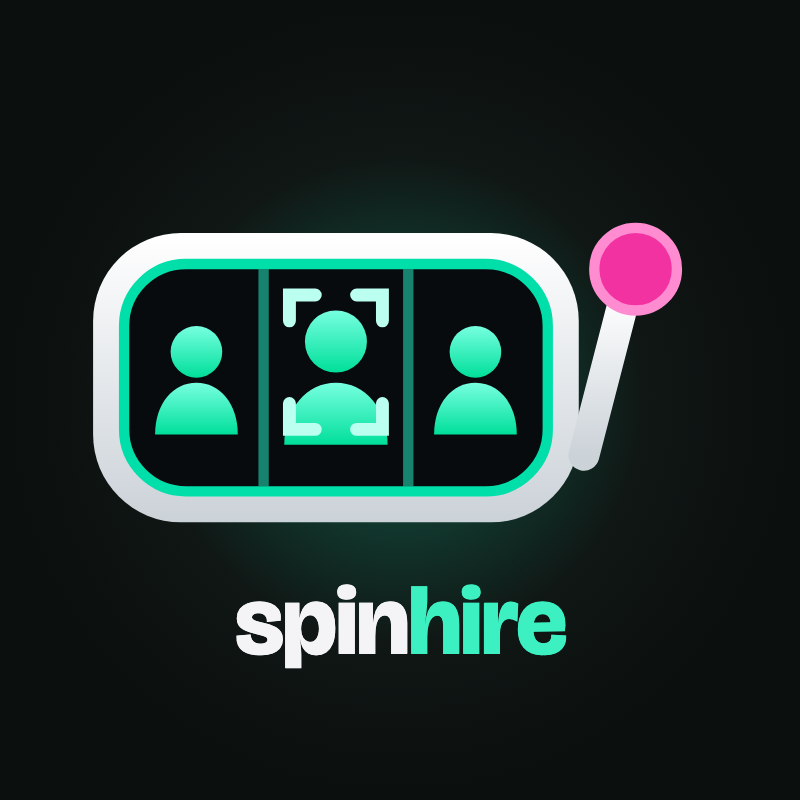
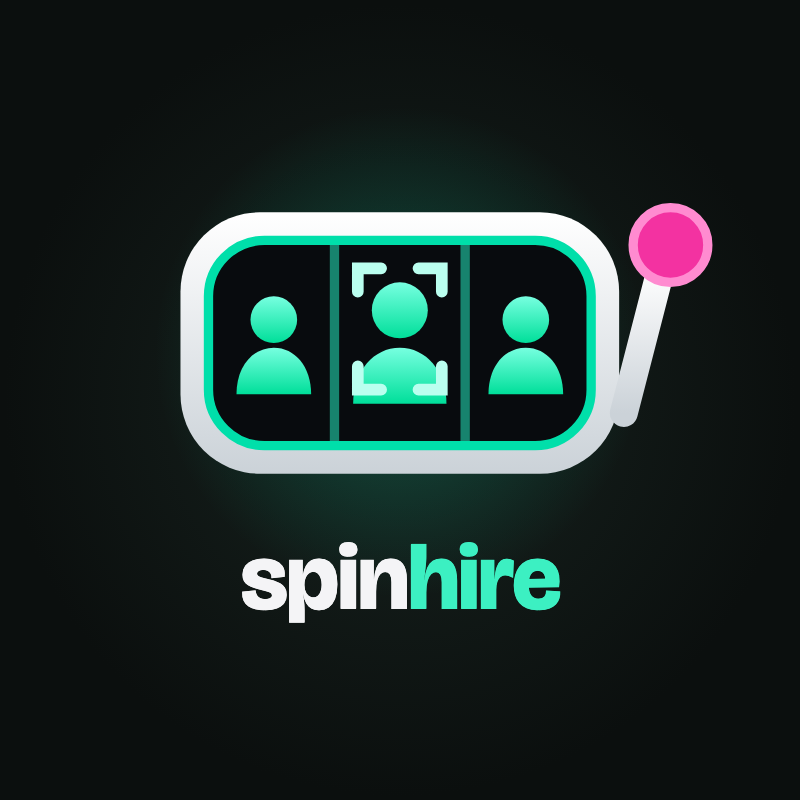
YouTube: аватар со слот-маркой отцентрован по корпусу, а не по bbox с рычагом

Changed region(s): [[0.0938, 0.25, 0.9062, 0.8438]]

diff --git a/assets/brand/youtube/avatar-slot.html b/assets/brand/youtube/avatar-slot.html
@@ -1,8 +1,12 @@
 <!doctype html><meta charset="utf-8"><link rel="stylesheet" href="fonts.css">
 <style>html,body{margin:0;width:800px;height:800px;overflow:hidden;background:#0b0f0e}
 .bg{position:absolute;inset:0;background:radial-gradient(circle at 50% 50%, #17231f 0%, #0b0f0e 70%)}
-.glow{position:absolute;left:50%;top:50%;width:560px;height:560px;transform:translate(-50%,-50%);border-radius:50%;background:radial-gradient(circle, rgba(0,223,170,.28) 0%, rgba(0,223,170,0) 62%)}
-img{position:absolute;left:50%;top:50%;width:620px;transform:translate(-52%,-56%)}
-.w{position:absolute;left:0;right:0;top:565px;text-align:center;font-family:"Bricolage Grotesque",sans-serif;font-weight:800;font-size:96px;letter-spacing:-.02em;color:#f4f4f6}
+.glow{position:absolute;left:50%;top:44%;width:560px;height:560px;transform:translate(-50%,-50%);border-radius:50%;background:radial-gradient(circle, rgba(0,223,170,.26) 0%, rgba(0,223,170,0) 62%)}
+.g{position:absolute;inset:0;display:flex;flex-direction:column;align-items:center;justify-content:center;gap:22px}
+/* корпус слота в SVG занимает x 3–97 из 120 (центр 50), рычаг торчит справа до 116.
+   сдвигаем картинку вправо на (60-50)/120 её ширины, чтобы по центру был корпус, а не bbox */
+.m{width:560px;transform:translateX(8.3%)}
+.w{font-family:"Bricolage Grotesque",sans-serif;font-weight:800;font-size:92px;line-height:1;letter-spacing:-.02em;color:#f4f4f6}
 .w b{color:#3cf0c2}
-</style><div class="bg"></div><div class="glow"></div><img src="spinhire-slot.svg"><div class="w">spin<b>hire</b></div>
+</style><div class="bg"></div><div class="glow"></div>
+<div class="g"><img class="m" src="spinhire-slot.svg"><div class="w">spin<b>hire</b></div></div>
